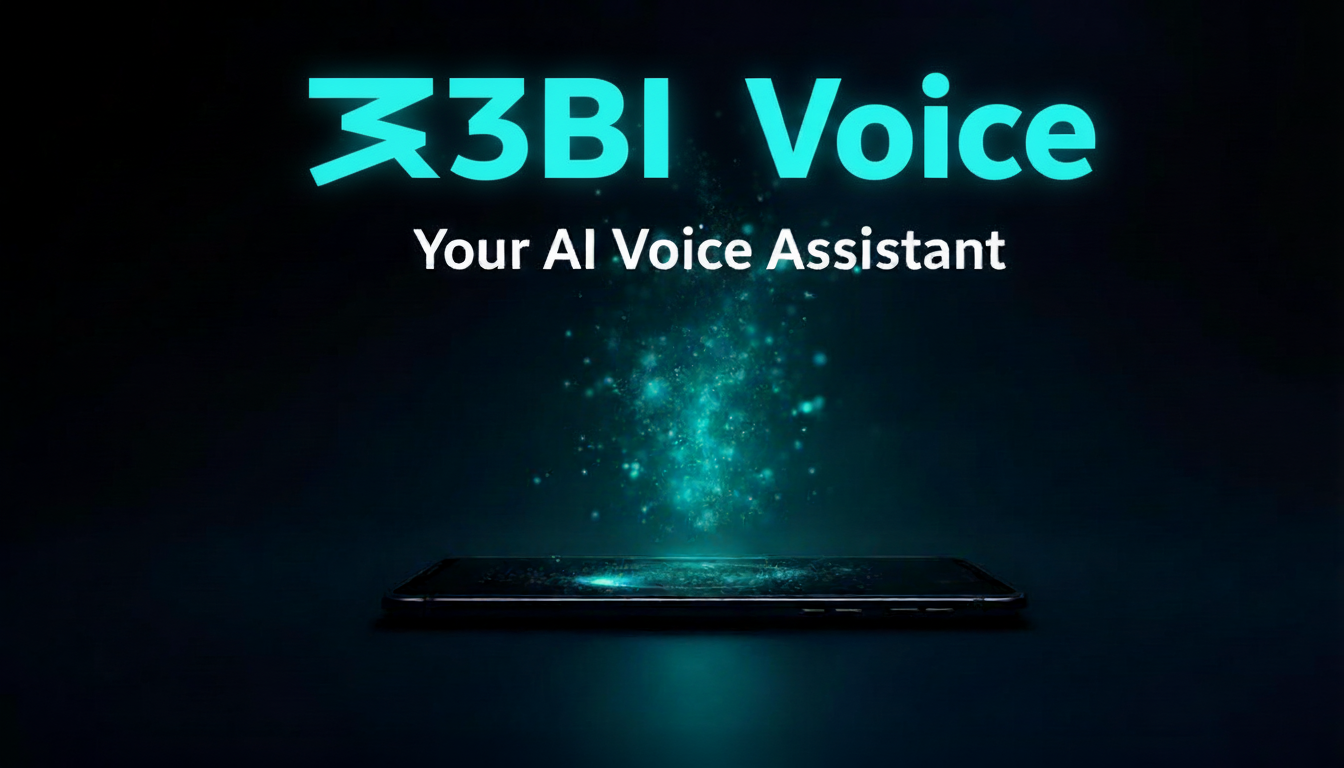
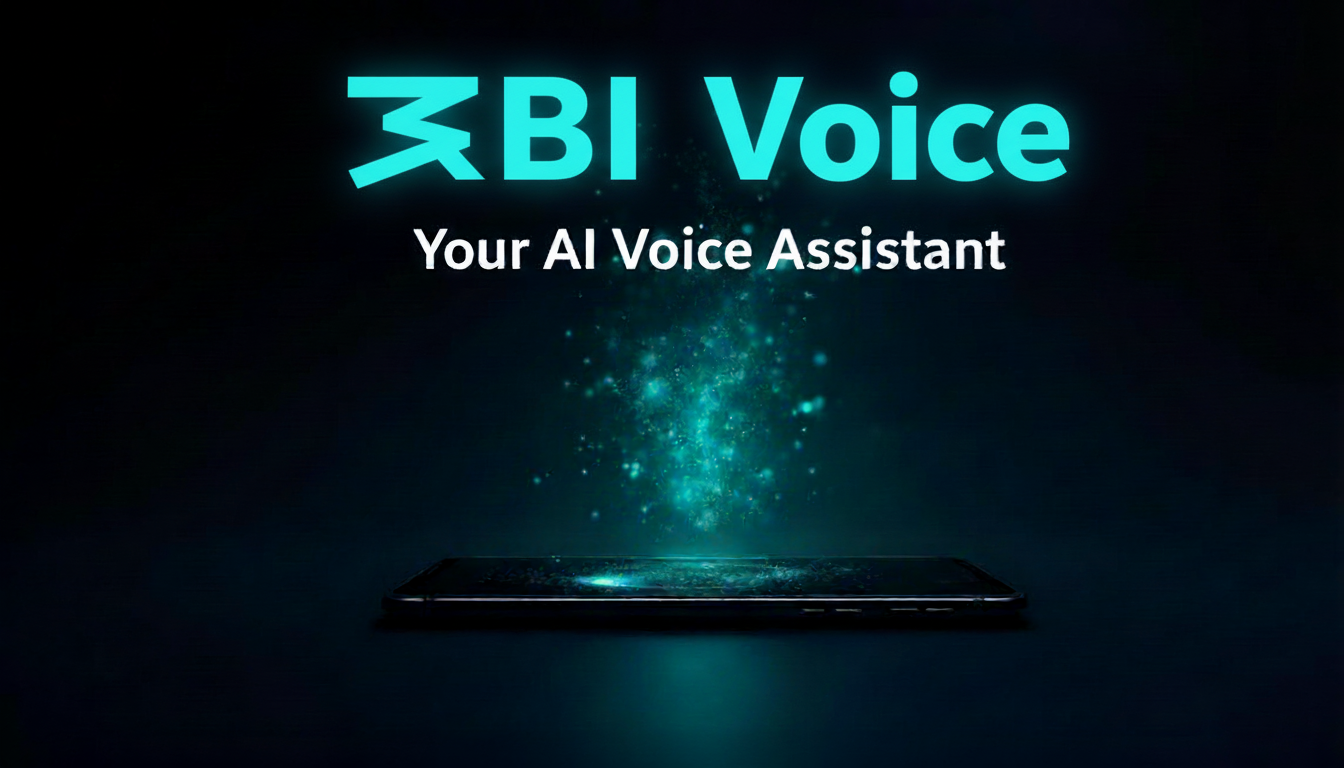
Changes

Changed region(s): [[0.2188, 0.0938, 0.8438, 0.25]]

diff --git a/supabase/functions/brand-og-image/index.ts b/supabase/functions/brand-og-image/index.ts
@@ -32,23 +32,24 @@ serve(async (req) => {
         "Content-Type": "application/json",
       },
       body: JSON.stringify({
-        model: "google/gemini-2.5-flash-image-preview",
+        model: "google/gemini-3-pro-image-preview",
         messages: [
           {
             role: "user",
             content: [
               {
                 type: "text",
-                text: `Add professional branding to this image for an Open Graph social share card. 
-                
-Add the text "ƷBI Voice" in a bold, modern font at the top center of the image. 
-Use a cyan/teal color (#22d3ee or similar bright cyan) for the text that matches the glowing particles in the image.
-Add a subtle text shadow or glow effect to make the text stand out.
-Below the main title, add "Your AI Voice Assistant" in smaller text, also in a light/white color with good contrast.
+                text: `Add professional branding text to this image for an Open Graph social share card (1200x630).
 
-Keep the existing phone and particle effects intact - only add the text branding on top.
-The overall look should be sleek, modern, and tech-focused.
-Output dimensions should be 1200x630 (standard OG image size).`
+At the top center, add the brand name in large, bold, modern sans-serif font. The brand name is four characters: the first character looks like a reversed/mirrored numeral "3" (this is the Latin letter Ezh, Ʒ), followed by the uppercase letters "B", "I", then a space, then "Voice". So the full text reads: ƷBI Voice
+
+Use bright cyan/teal color (#22d3ee) for the text to match the glowing cyan particles in the image.
+Add a subtle cyan glow or text shadow behind the letters for a neon effect.
+
+Below the title, add "Your AI Voice Assistant" in smaller white text with slight transparency.
+
+IMPORTANT: Keep all existing imagery (phone mockup, particles, dark background) completely intact. Only overlay the text on top.
+The result must be exactly 1200x630 pixels.`
               },
               {
                 type: "image_url",
